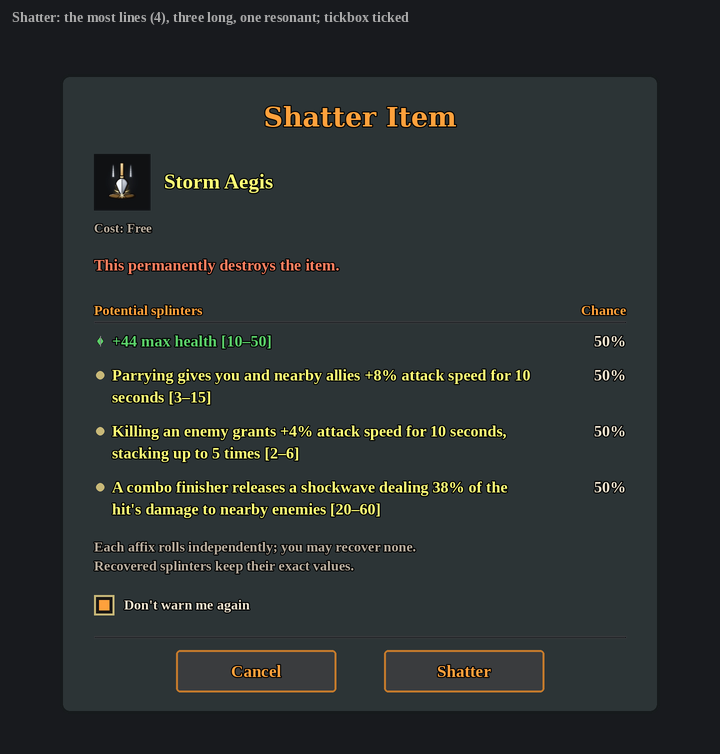
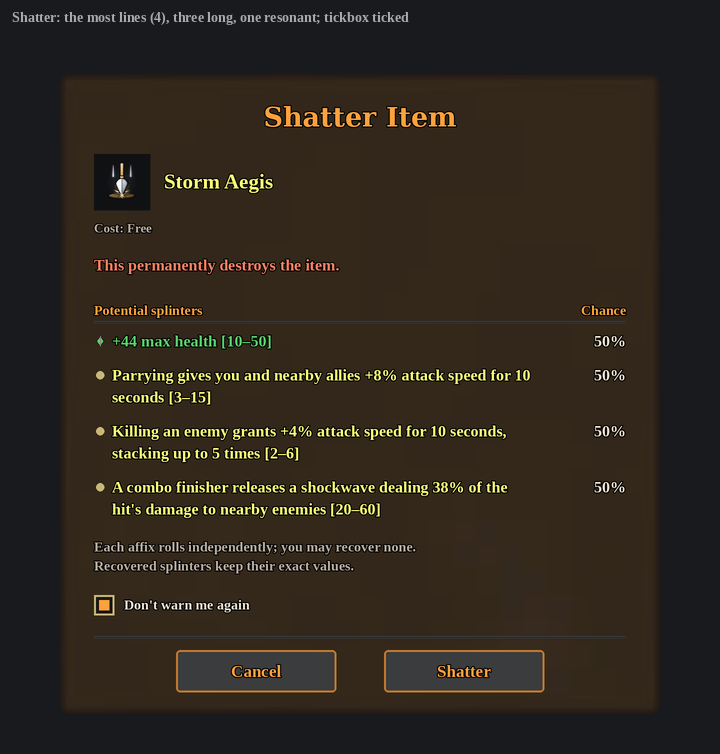
Forge dialogs: the game's normal panel background; hide copied gamepad hints
Play-test: the panel showed a loading-screen picture and the buttons a
'MISSING BUTTON DEF' hint. Splinter shapes and colours confirmed in game.

Claude-Session: https://claude.ai/code/session_01R9nuRp7Rehgu1Hw7kaFRn3

diff --git a/Corruption/Content/RiftforgeDialog.cs b/Corruption/Content/RiftforgeDialog.cs
@@ -29,8 +29,8 @@ namespace Corruption.Content
     /// <summary>
     ///     The Forge's confirmation dialog, one design for Shatter and for Corrupt (Krogon, 2026-11-10): title, the
     ///     item's icon and name, the cost, the warning once, a two-column list with right-aligned chances, a short
-    ///     explanation, a "Don't warn me again" tickbox and a footer with Cancel and the action. It is drawn with the
-    ///     art of the game's own message box (its panel, heading font, body font and buttons), so it looks like one.
+    ///     explanation, a "Don't warn me again" tickbox and a footer with Cancel and the action. It is drawn on the
+    ///     game's normal panel (the inventory's background) with the message box's heading font, body font and buttons.
     ///     Positions and the height come from <see cref="ForgeDialogLayout" />, fed with the measured heights of the
     ///     wrapped texts; the whole dialog shrinks when the screen is too small. Only shows and reports the click; the
     ///     rules run in <see cref="RiftforgeCrafting" />.
@@ -88,19 +88,23 @@ namespace Corruption.Content
             panel.SetParent(rootRt, false);
             panel.anchorMin = panel.anchorMax = panel.pivot = new Vector2(0.5f, 0.5f);
             var background = panelGo.GetComponent<Image>();
-            var art = popup && popup.popupUIParent ? PanelArt(popup.popupUIParent.transform) : null;
-            if (art)
+            // The game's normal panel: the inventory's own background ("Bkg"), the one the character sheet copies and
+            // Krogon has seen in game. (Play-test 2026-11-10: guessing the message box's panel picked up a loading-screen
+            // picture instead, a troll behind the text.)
+            var bkg = gui.m_player ? gui.m_player.Find("Bkg") : null;
+            var art = bkg ? bkg.GetComponent<Image>() : null;
+            if (art && art.sprite)
             {
-                // The message box's own panel, fully opaque so nothing behind shows through the text.
                 background.sprite = art.sprite;
                 background.type = art.type;
+                background.material = art.material;
                 background.pixelsPerUnitMultiplier = art.pixelsPerUnitMultiplier;
-                background.color = new Color(art.color.r, art.color.g, art.color.b, 1f);
+                background.color = art.color;
             }
             else
             {
                 background.color = PlainPanel;
-                Jotunn.Logger.LogWarning("Forge dialog: the game's message-box panel wasn't found; using a plain dark panel.");
+                Jotunn.Logger.LogWarning("Forge dialog: the inventory's panel background wasn't found; using a plain dark panel.");
             }
 
             // A plain dark sheet under the art, a little inside its edge: whatever the art does, text is never left
@@ -251,6 +255,27 @@ namespace Corruption.Content
                 }
                 button.interactable = true;
                 Place(button, at);
+                // Only the label stays: the message box's buttons carry a gamepad key hint, which copied here showed
+                // "MISSING BUTTON DEF" down the dialog (play-test 2026-11-10).
+                var labelText = button.GetComponentInChildren<TMP_Text>(true);
+                foreach (var other in button.GetComponentsInChildren<TMP_Text>(true))
+                {
+                    if (other != labelText)
+                    {
+                        other.gameObject.SetActive(false);
+                    }
+                }
+                foreach (var component in button.GetComponentsInChildren<MonoBehaviour>(true))
+                {
+                    if (component && component.GetType().Name == "UIGamePad")
+                    {
+                        var hint = component.GetType().GetField("m_hint")?.GetValue(component) as GameObject;
+                        if (hint)
+                        {
+                            hint.SetActive(false);
+                        }
+                    }
+                }
                 var tip = button.GetComponent<UITooltip>();
                 if (tip)
                 {
@@ -269,38 +294,6 @@ namespace Corruption.Content
             rt.anchorMax = Vector2.one;
             rt.offsetMin = new Vector2(inset, inset);
             rt.offsetMax = new Vector2(-inset, -inset);
-        }
-
-        /// <summary>
-        ///     The message box's panel picture: the largest visible, sprite-carrying image that isn't a button's or a
-        ///     full-screen cover (the first Shatter dialog picked a crafting-panel image that drew nothing).
-        /// </summary>
-        private static Image PanelArt(Transform popupRoot)
-        {
-            Image best = null;
-            float bestArea = 0f;
-            foreach (var image in popupRoot.GetComponentsInChildren<Image>(true))
-            {
-                if (!image.sprite || image.color.a < 0.5f || image.GetComponentInParent<Button>(true) ||
-                    image.type != Image.Type.Sliced && image.type != Image.Type.Simple)
-                {
-                    continue;
-                }
-                var mask = image.GetComponent<Mask>();
-                if (mask && !mask.showMaskGraphic)
-                {
-                    continue;
-                }
-                var rect = image.rectTransform.rect;
-                float area = rect.width * rect.height;
-                // A cover that fills the screen isn't the panel.
-                if (area > bestArea && rect.width < Screen.width * 0.9f)
-                {
-                    best = image;
-                    bestArea = area;
-                }
-            }
-            return best;
         }
 
         public static void Close()

diff --git a/tools/mockup_forge_dialogs.py b/tools/mockup_forge_dialogs.py
@@ -98,8 +98,8 @@ def dialog(name, colour, rows, chance="50%", screen=None, label=None, kind=SHATT
     height = y + FOOTER_H
 
     canvas = Image.new("RGBA", (int(WIDTH * S), int(height * S)), (0, 0, 0, 0))
+    P.paste(canvas, P.sliced(P.art("panel"), WIDTH, height, 20), 0, 0)   # the game's normal wood panel
     d = ImageDraw.Draw(canvas)
-    d.rounded_rectangle([0, 0, WIDTH * S - 1, height * S - 1], radius=10 * S, fill=SLATE, outline=SLATE_EDGE, width=3 * S)
     x = PADDING
     P.text(d, (WIDTH / 2, title_y + TITLE_H / 2), kind["title"].title(), 27, ORANGE, "mm", title=True)
 

diff --git a/FEATURES.md b/FEATURES.md
@@ -578,7 +578,7 @@ New item registered through Jötunn: `CorruptionShard` (cloned from the `ShardBa
   - Works on Normal, Magic and Rare gear. Refused, using nothing: "Already corrupted", "Uniques can't be corrupted", "Mirrored items can't be changed", "This item can't take affixes" (gear outside `loot_bases.csv`).
 - **Corrupted affixes count beyond the caps.** For the capped stats (`affix_caps.csv`: movement speed, attack speed, pickup radius, each resistance, life steal) the ordinary affixes are added up and capped as before, **over everything worn**, and corrupted affixes are added on top. Corrupting an item never uncaps its ordinary affixes. Resistance never goes past 100% (past that a hit would heal). Limit: Skald's and Fenrir (attack-speed buffs from a parry or a kill) stay under the cap even from a corrupted line, because the buff carries one number.
 - **Where caps are shown:** not in tooltips (Krogon, 2026-11-10: "the tooltip is already overly crowded"). A detailed character stats sheet will show each cap and how close you are: issue #60. The numbers are ready (`AffixTotals.Progress`, tested).
-- **Shattering.** The Forge tab's **Shatter** button, on Magic or Rare gear. Free. **Its own dialog asks first** (Krogon's brief, 2026-11-10): the title "Shatter item", the gear's icon and rarity-coloured name, "Cost: Free", the warning "This permanently destroys the item." once, then **Potential splinters** as two columns, each affix as the Forge shows it (bullets, green ◆ and green text for resonant lines, value and range, wrapped lines indented under the text) with its chance right-aligned beside it (`shattering.csv`, 50%; a resonant line is one line), a short note ("Each affix rolls independently; you may recover none. Recovered splinters keep their exact values."), a **Don't warn me again** tickbox on its own row, and **Cancel** (left) and **Shatter** (right) in a footer of their own. Drawn with the art of the game's own message box (its panel, heading font, body font and buttons) over a plain dark backing, so text never floats over the inventory; its height follows the content (`ForgeDialogLayout`, tested: nothing overlaps, the tickbox and the footer have their own rows) and the whole dialog shrinks if the screen is too small. Escape or Cancel changes nothing. Previews (not screenshots): `docs/images/forge_dialog_preview.png` (`tools/mockup_forge_dialogs.py`). **Shatter** destroys the gear and gives 0 or more **Affix Splinters**, each holding one line with its exact value (a resonant line: the combined value).
+- **Shattering.** The Forge tab's **Shatter** button, on Magic or Rare gear. Free. **Its own dialog asks first** (Krogon's brief, 2026-11-10): the title "Shatter item", the gear's icon and rarity-coloured name, "Cost: Free", the warning "This permanently destroys the item." once, then **Potential splinters** as two columns, each affix as the Forge shows it (bullets, green ◆ and green text for resonant lines, value and range, wrapped lines indented under the text) with its chance right-aligned beside it (`shattering.csv`, 50%; a resonant line is one line), a short note ("Each affix rolls independently; you may recover none. Recovered splinters keep their exact values."), a **Don't warn me again** tickbox on its own row, and **Cancel** (left) and **Shatter** (right) in a footer of their own. Drawn on the game's normal wood panel (the inventory's own background, as the character sheet uses) with the message box's heading font, body font and buttons, over a plain dark backing so text never floats over the inventory; its height follows the content (`ForgeDialogLayout`, tested: nothing overlaps, the tickbox and the footer have their own rows) and the whole dialog shrinks if the screen is too small. Escape or Cancel changes nothing. Previews (not screenshots): `docs/images/forge_dialog_preview.png` (`tools/mockup_forge_dialogs.py`). **Shatter** destroys the gear and gives 0 or more **Affix Splinters**, each holding one line with its exact value (a resonant line: the combined value).
   - **Room is checked before anything is rolled**: one place per line the gear shows, in the Splinters tab or, when that is full, the Bag; the gear's own Bag cell counts as free (only when the gear sits in the Bag grid). Not enough: "Make room for up to X splinters." and nothing happens. Checked when the button is pressed and again on Yes, so a roll can never be turned down by filling the bag.
   - **One operation:** the gear goes and every splinter arrives, or nothing changes. If a splinter can't be stored after all, the gear is put back and no splinter stays. Nothing is ever dropped on the ground.
   - Refused: "Only Magic and Rare items shatter", "Uniques and corrupted items can't be shattered", "Mirrored items can't be changed", "This item has no affixes".
@@ -599,7 +599,7 @@ New item registered through Jötunn: `CorruptionShard` (cloned from the `ShardBa
 - The splinter colours are Claude's picks inside Krogon's approved idea (`status` `proposed` in `splinter_looks.csv`); change any colour there and rerun `tools/make_splinters.py`. Renaming an affix family would orphan its splinters (their item name uses the family).
 - 68 splinter items render their icons when the game starts (a little more start-up time).
 - Splinter weight 0.2 (the shard's number; no number of its own in the design; the Splinters tab is weightless anyway).
-- Both confirmations are the mod's own dialog; mouse only. Play-test 2026-11-10: the first Shatter dialog had no background and the shard box's tickbox overlapped its text; both rebuilt as one dialog with the message box's art, to re-test.
+- Both confirmations are the mod's own dialog; mouse only. Play-test 2026-11-10: the first Shatter dialog had no background and the shard box's tickbox overlapped its text; both rebuilt as one dialog. Second look: the layout and tickbox were right, but the panel showed a loading-screen picture (a troll) and the buttons a stray "MISSING BUTTON DEF" gamepad hint; fixed (the inventory's own panel background; hints hidden), to re-test.
 - A gear piece that was equipped when a failed shatter put it back comes back unequipped.
 - Items saved by this build with a corrupted affix can't be read by older builds (the saved line starts with `~`); everyone needs the same build anyway.
 - Whether EquipmentAndQuickSlots reports an equipped item as "in the Bag grid" isn't checked against its code; the safety net is the put-back above.
@@ -1370,6 +1370,7 @@ Diablo 2-style classes in a separate plugin: the Amazon first (group vote, 2026-
 ## Changelog
 
 ### 2026-11-10
+- **Play-test: Affix Splinters now show their own shapes and colours** (Krogon). **Fix (Forge dialogs):** the panel behind both confirmations was a loading-screen picture and the buttons showed "MISSING BUTTON DEF"; the dialog now uses the game's normal wood panel and hides the gamepad hints. To re-test.
 - **Change (Riftforge, Krogon's play-test): one dialog design for both confirmations.** The shard now asks in the same structured dialog as Shatter ("Corrupt item": outcomes and chances in two columns, Cancel / Corrupt); both have a "Don't warn me again" tickbox on its own row (the Shatter one is back, `WarnBeforeShattering` too). **Fix:** the Shatter dialog had no background (text floated over the inventory) and the shard box's tickbox overlapped its text: the dialog now uses the game's message-box panel, fonts and buttons over a dark backing. Untested; previews in `docs/images/forge_dialog_preview.png`.
 - **Change (Riftforge, Krogon's brief): the Shatter confirmation is its own structured dialog** (title, icon and name, Cost: Free, one warning, a two-column list of affixes and chances, a short note, Cancel / Shatter in a footer), sized from its content, and it asks every time: the "Don't warn me again" tickbox and the `WarnBeforeShattering` setting are gone (the shard keeps its own). Superseded the same day (entry above).
 - **Fix: every Affix Splinter looked like the same red gem** (play-test): the nine shape files were skipped by `.gitignore` and never reached the build. Committed. To re-test.

diff --git a/docs/playtests/claude-brave-einstein-xz357h.md b/docs/playtests/claude-brave-einstein-xz357h.md
@@ -15,7 +15,7 @@
 
 #### A. Shattering (about 8 minutes)
 1. [ ] Get 3–4 Rare and Magic items (`co_loot rare`, `co_loot magic`). Open the Riftforge → **Forge** tab. Drag a Rare item onto the forge slot → the **Shatter** button is lit.
-2. [ ] Press **Shatter** → the **Shatter item** dialog (compare `docs/images/forge_dialog_preview.png`): a dark panel like the game's message boxes, nothing of the inventory showing through the text: title centred; the item's icon and coloured name; "Cost: Free"; "This permanently destroys the item." once, in red-orange; **Potential splinters** with each affix on the left (bullets, a green ◆ line if resonant, wrapped lines indented) and **50%** on the right in its own column; two small grey lines of explanation; a **Don't warn me again** tickbox on its own line; **Cancel** left and **Shatter** right, clear of the text. Nothing clipped or overlapping. Press **Cancel** (or Escape) → nothing changed, the item is still in the slot.
+2. [ ] Press **Shatter** → the **Shatter item** dialog (compare `docs/images/forge_dialog_preview.png`): the game's normal wood panel, nothing of the inventory showing through the text: title centred; the item's icon and coloured name; "Cost: Free"; "This permanently destroys the item." once, in red-orange; **Potential splinters** with each affix on the left (bullets, a green ◆ line if resonant, wrapped lines indented) and **50%** on the right in its own column; two small grey lines of explanation; a **Don't warn me again** tickbox on its own line; **Cancel** left and **Shatter** right, clear of the text. Nothing clipped or overlapping. Press **Cancel** (or Escape) → nothing changed, the item is still in the slot.
    - [ ] Try it with an item with a long affix (a parry or kill effect) and with a 4-affix Rare: still nothing clipped, the 50% column still lined up.
    - [ ] If you play at a large UI scale: the whole dialog fits on screen.
 3. [ ] Press **Shatter**, then **Shatter** in the dialog → the item is gone, the slot is empty, and the result says "Shattered …: N splinters (…)" or "… no splinters recovered". The inventory stays on the tab you were on.
@@ -83,6 +83,15 @@ Splinters go to the Splinters tab first, then the Bag. The refusal needs **both*
 - Shard box: still the game's Yes/No box; **the tickbox overlaps the last line of text**. "The shard box needs to be consistent in design as well."
 - "I still want a tickbox on both panels … they need to have an option to hide the panel once they get used to the mechanics."
 - (The splinter-look fix isn't reported on yet.)
+
+### Your feedback (2026-11-10, third try: screenshots of both dialogs)
+- **"The splinters now show their own shapes and colours."** (the missing-files fix worked)
+- Both dialogs: layout, columns, tickbox row and buttons are in place, but **"why is there a troll in the background of the panel?"** (a loading-screen picture behind the text). "Please use the normal background like the rest of the UI. Same with the shard panel."
+- Seen in the screenshots: a stray column of text, "MISSING BUTTON DEF "ButtonB"" / "ButtonA", running down from each button.
+
+### What changed after the third feedback
+- Background: the dialog no longer guesses at the message box's art; it copies the inventory's own panel background (the wood panel the character sheet uses, which you've seen in game). To re-test.
+- Stray text: it was the gamepad key hint copied with the message box's buttons; hidden. To re-test.
 
 ### What changed after the second feedback
 - Both confirmations are now one dialog design (decisions 25–26): drawn with the game's message-box panel, heading, body font and buttons, over a plain dark backing so text can't float over the inventory; the shard's "Corrupt item" lists its three outcomes with their chances in the right column; each has its tickbox on a row of its own. Previews: `docs/images/forge_dialog_preview.png`. To re-test.

diff --git a/docs/handoffs/claude-brave-einstein-xz357h.md b/docs/handoffs/claude-brave-einstein-xz357h.md
@@ -19,7 +19,7 @@ Nothing confirmed in game yet.
 Built 2026-11-10, **not tested in game**:
 - **Shard corruption, shattering, Affix Splinters** in the Forge tab, with Krogon's rules below; `co_craft corrupt / shatter / splinter`.
 - **Corrupted affixes beyond the caps**; tooltips show each cap and what worn gear uses.
-- **One confirmation dialog for Shatter and Corrupt** (decisions 22, 24–26), each with a remembered "Don't warn me again" (settings `10 - Riftforge`). First in-game look: no background, and the shard's tickbox overlapped; rebuilt with the message box's art. Previews `docs/images/forge_dialog_preview.png`; waiting for Krogon's screenshots.
+- **One confirmation dialog for Shatter and Corrupt** (decisions 22, 24–26), each with a remembered "Don't warn me again" (settings `10 - Riftforge`). In-game looks so far: layout, columns and tickbox right; the background was wrong twice (none, then a loading-screen picture) and the buttons showed a stray gamepad hint: now the inventory's own panel, hints hidden. **Confirmed by Krogon: the splinters show their shapes and colours.** Previews `docs/images/forge_dialog_preview.png`; waiting for Krogon's screenshots.
 - **Splinter models** (approved designs): 9 shapes, a colour per family for all 67 (`splinter_looks.csv`, `tools/make_splinters.py`, preview `docs/images/splinters_preview.png`). Colours are Claude's picks within the approved idea.
 - **Shard twin completion** adds both values plus 25% (decision 20); **cap lines removed** from tooltips; the stats sheet is [#60](https://github.com/krogon-games/JotunnModStub/issues/60).
 
